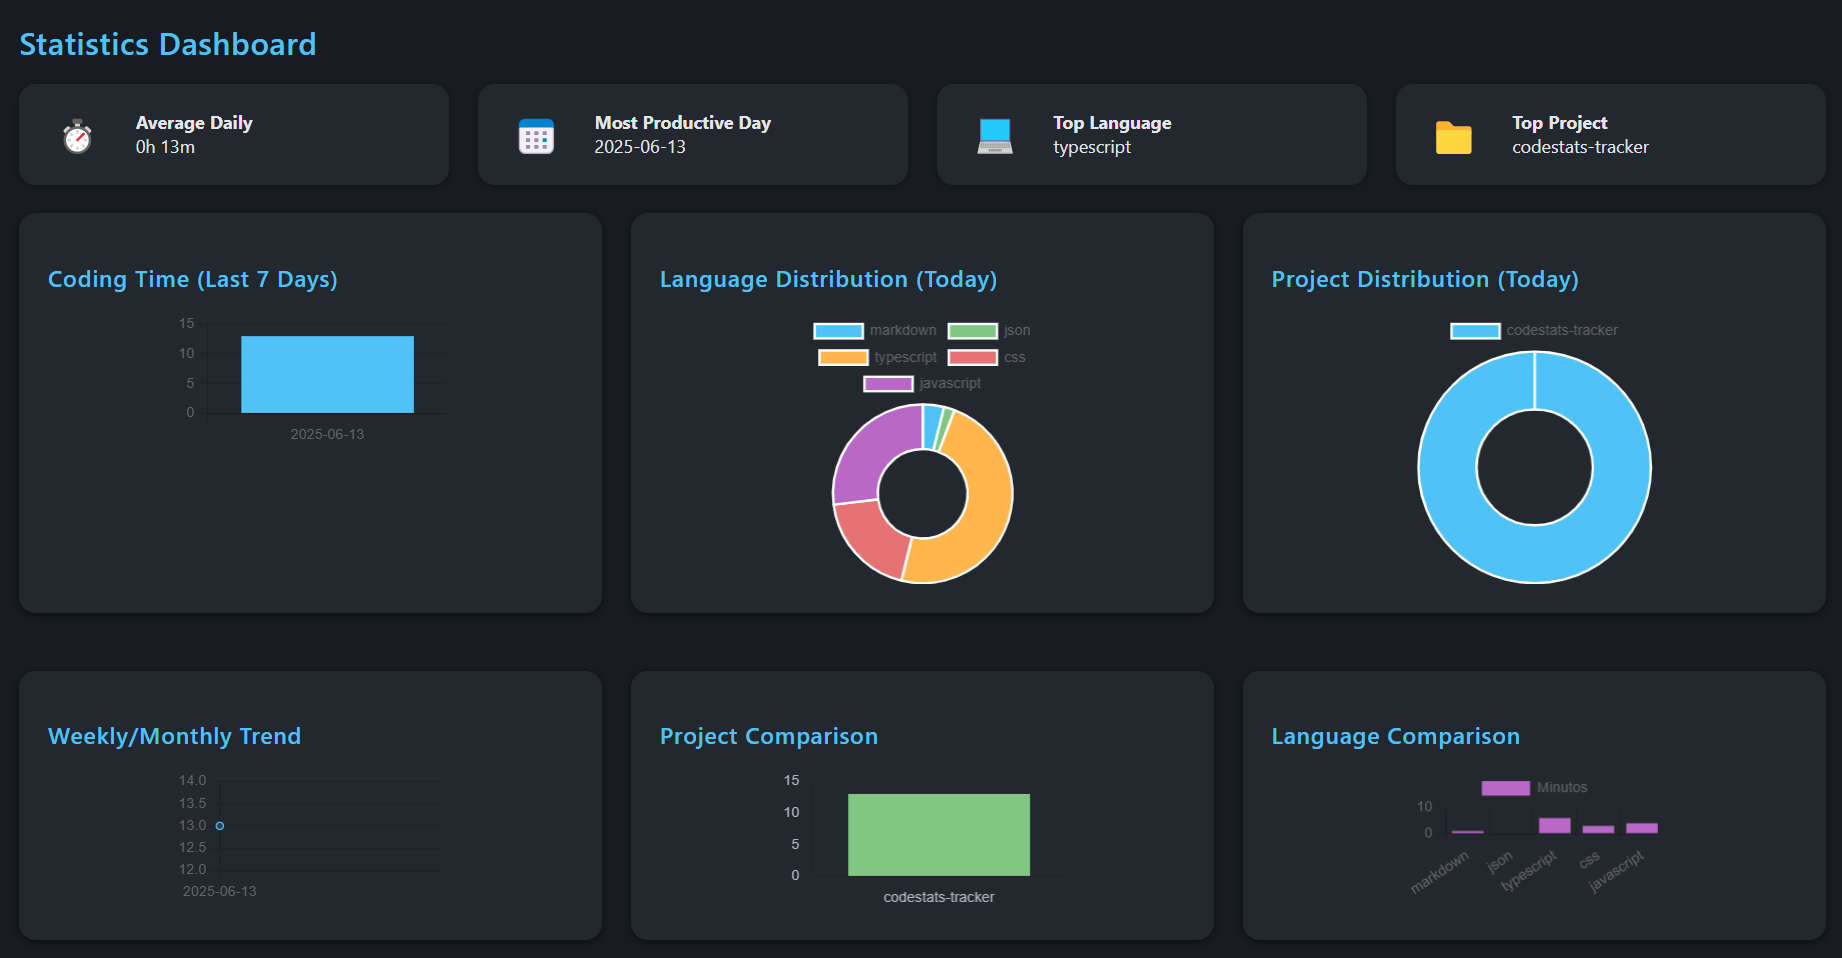
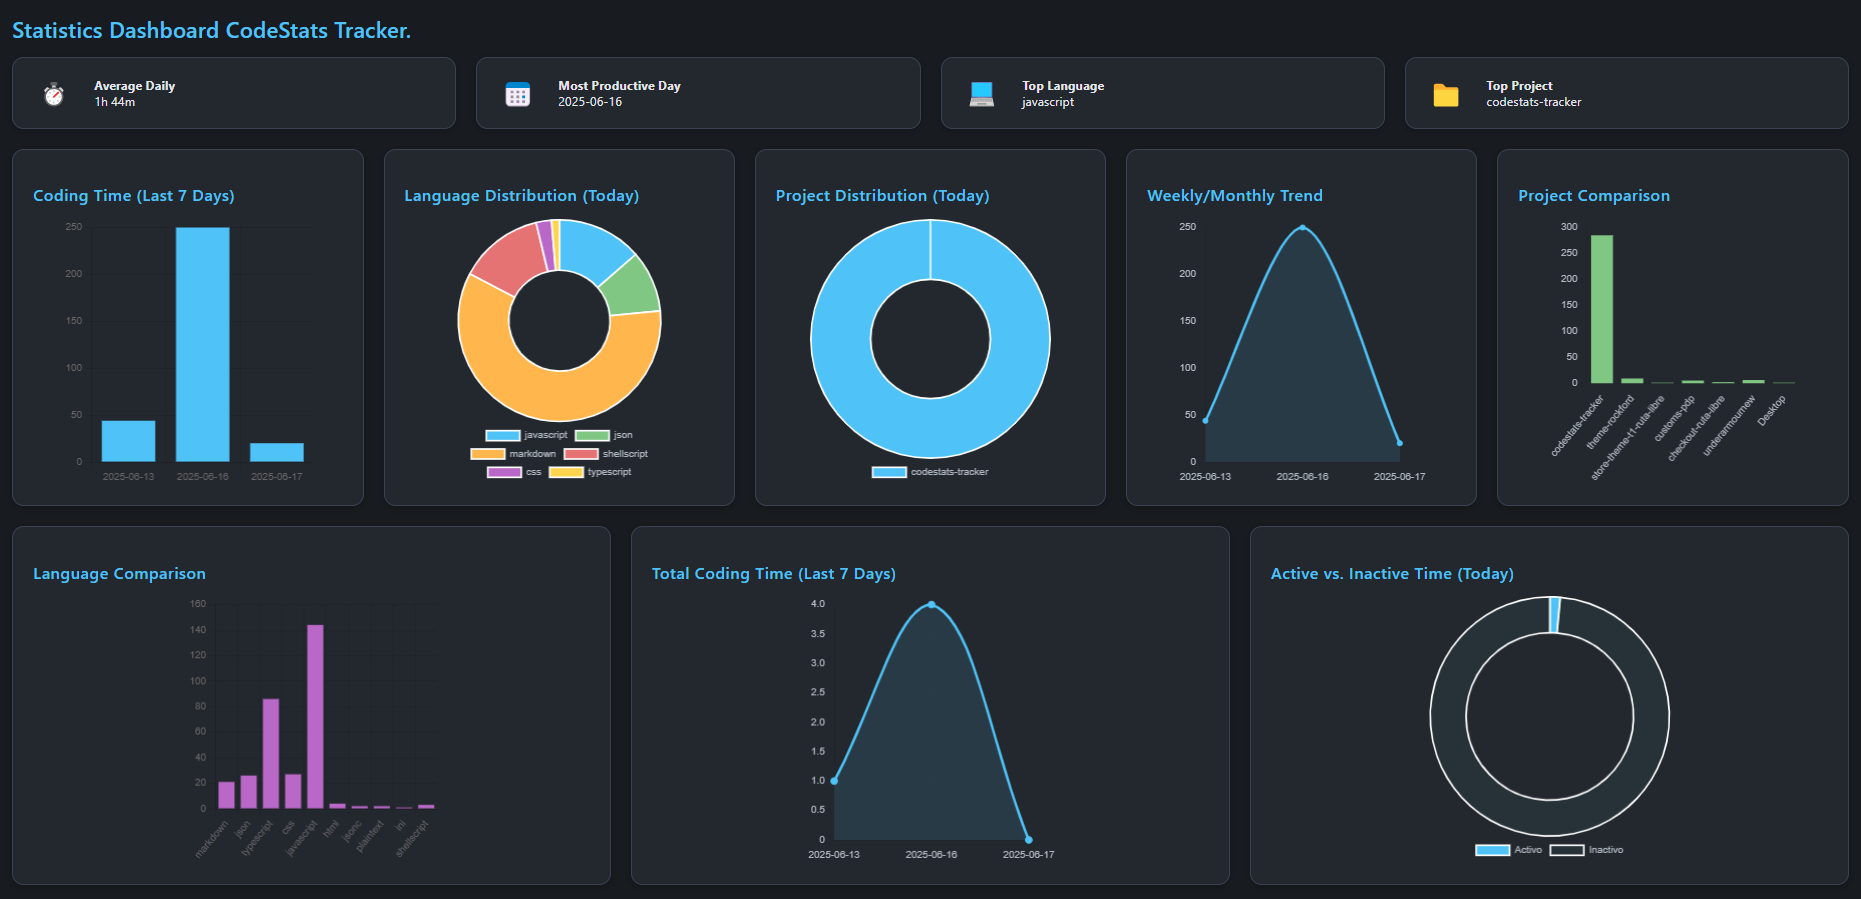
Update README.md: enhance documentation with new sections, features, and images; add version 0.1.1 highlights

diff --git a/webviews/style.css b/webviews/style.css
@@ -54,7 +54,6 @@ h2 {
   padding: 24px;
   flex: 1 1 340px;
   min-width: 320px;
-  margin-bottom: 24px;
   box-shadow: 0 2px 10px #0004;
   border: 1.5px solid #3a4252;
 }

diff --git a/README.md b/README.md
@@ -1,6 +1,28 @@
 # CodeStats Tracker
 
+![Version](https://vsmarketplacebadges.dev/version-short/codestats-tracker.codestats-tracker.svg)
+![Installs](https://vsmarketplacebadges.dev/installs/codestats-tracker.codestats-tracker.svg)
+![Rating](https://vsmarketplacebadges.dev/rating/codestats-tracker.codestats-tracker.svg)
+![Downloads](https://vsmarketplacebadges.dev/downloads/codestats-tracker.codestats-tracker.svg)
+
 **CodeStats Tracker** is an extension for Visual Studio Code that allows you to track your coding time, view advanced productivity statistics, and export your data for analysis or backup.
+
+---
+
+## Breadcrumbs
+- [CodeStats Tracker](#codestats-tracker)
+  - [Breadcrumbs](#breadcrumbs)
+  - [Features](#features)
+  - [How to use CodeStats Tracker?](#how-to-use-codestats-tracker)
+    - [1. Start tracking](#1-start-tracking)
+    - [2. Open the statistics dashboard](#2-open-the-statistics-dashboard)
+    - [3. Explore your statistics](#3-explore-your-statistics)
+    - [5. Customization](#5-customization)
+  - [🚀 What's New in Version 0.1.1](#-whats-new-in-version-011)
+  - [✨ Main Features](#-main-features)
+  - [Contributing](#contributing)
+  - [Author](#author)
+  - [License](#license)
 
 ---
 
@@ -24,7 +46,7 @@
 - After installing the extension, you will see a counter in the bottom status bar of VS Code showing your coding time for the day.
 - Tracking starts automatically when you edit files in any project.
 
-![Status bar counter](https://imgur.com/6iy8qlm)
+![Status bar counter](https://github.com/user-attachments/assets/5d3f76cb-4a02-40f6-8ee6-be943e06bf4e)
 
 ### 2. Open the statistics dashboard
 
@@ -32,7 +54,8 @@
 - Press `Ctrl+Shift+P` and run the command:  
   **CodeStats: View Statistics Dashboard**
 
-  ![Statistics dashboard](https://imgur.com/BKhuIiJ)
+  ![Statistics dashboard](https://github.com/user-attachments/assets/d059c74d-ca83-4f76-af32-ad4ff22a5a5f)
+  ![Statistics table](https://github.com/user-attachments/assets/3cb380ee-e592-4979-9b4a-23a9029505ef)
 
 ### 3. Explore your statistics
 
@@ -48,6 +71,28 @@ In the dashboard you can see:
 
 ---
 
+## 🚀 What's New in Version 0.1.1
+
+- **Modular architecture:** The dashboard has been fully refactored to use modular components, making it easier to maintain and extend.
+- **New charts and visualizations:**
+  - Project and language comparison charts.
+  - Weekly/monthly coding time trends.
+  - Active vs. idle time chart.
+- **Improved data handling:** Communication between the extension and the dashboard is now more robust, ensuring data is always displayed correctly.
+- **Dynamic interface:** The dashboard HTML is now generated dynamically, removing the dependency on static HTML files.
+- **Performance and bug fixes:** Fixed rendering and data loading issues, and removed legacy and duplicate files.
+
+---
+
+## ✨ Main Features
+
+- Daily coding time statistics by project and language.
+- Interactive charts for trends and comparisons.
+- Export data as JSON.
+- Modern, responsive interface integrated into VS Code.
+
+---
+
 ## Contributing
 
 Contributions are welcome! You can open issues or pull requests to suggest improvements or report bugs.
@@ -59,8 +104,16 @@ Open an issue in the repository or contact the author!
 
 ## Author
 
-David Bedoya
+David Bedoya Hernández
+
+---
+
+## License
+
+[MIT](LICENSE)
 
 ---
 
 Thank you for using CodeStats Tracker!
+
+
